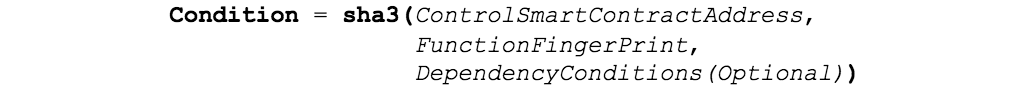
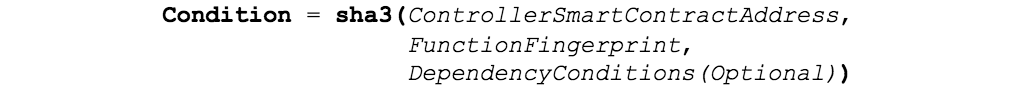
update the sla definition

Changed region(s): [[0.1549, 0.0577, 0.8364, 0.2596], [0.3717, 0.6058, 0.8364, 0.8365], [0.3717, 0.3462, 0.6815, 0.5481]]

diff --git a/doc/sla.md b/doc/sla.md
@@ -25,17 +25,20 @@ between parties may/not be associated with a set of conditions
 ![SLA Condition Definition](img/SLA_ConditionDefinition.png)
 
 
-- Controller Smart Contract Address: This defines the business logic concerning one or more conditions
+- ***Controller Smart Contract Address:*** This defines the business logic concerning one or more conditions
 in the service agreement. This applies [Controller-Storage Pattern](#controller-storage-pattern)
-- Function Fingerprint: For each condition in the controller smart contract, there is a function. For more information check out the 
+- ***Function Fingerprint:*** For each condition in the controller smart contract, there is a function fulfills only one condition For more information check out the 
 [appendix - function fingerprint](#function-fingerprint). 
-fulfills only one condition
-- Dependency Conditions (*Optional*): enforces the execution of the dependency model for this condition 
-in terms of list of condition/s that must be fulfilled. The dependency model is defined in terms of tree structure 
+- ***Dependency Conditions (*Optional*):*** enforces the execution of the dependency model for this condition 
+in terms of list of condition/s that must be fulfilled. The dependency model is defined in terms of tree data structure 
 in order to avoid any circular dependency and satisfy the `termination` and `correctness` of the model as shown below:
 
 ![SLA Dependency Model](img/SLA_DependencyModelDefinition.png)
 
+
+Any entity, organization, tribe could bundle the same conditions in order to define the different service level agreements. Moreover
+they can define and integrate new conditions by following the same pattern.
+ 
 ## Components
 
 ### 1. SLA Contract
